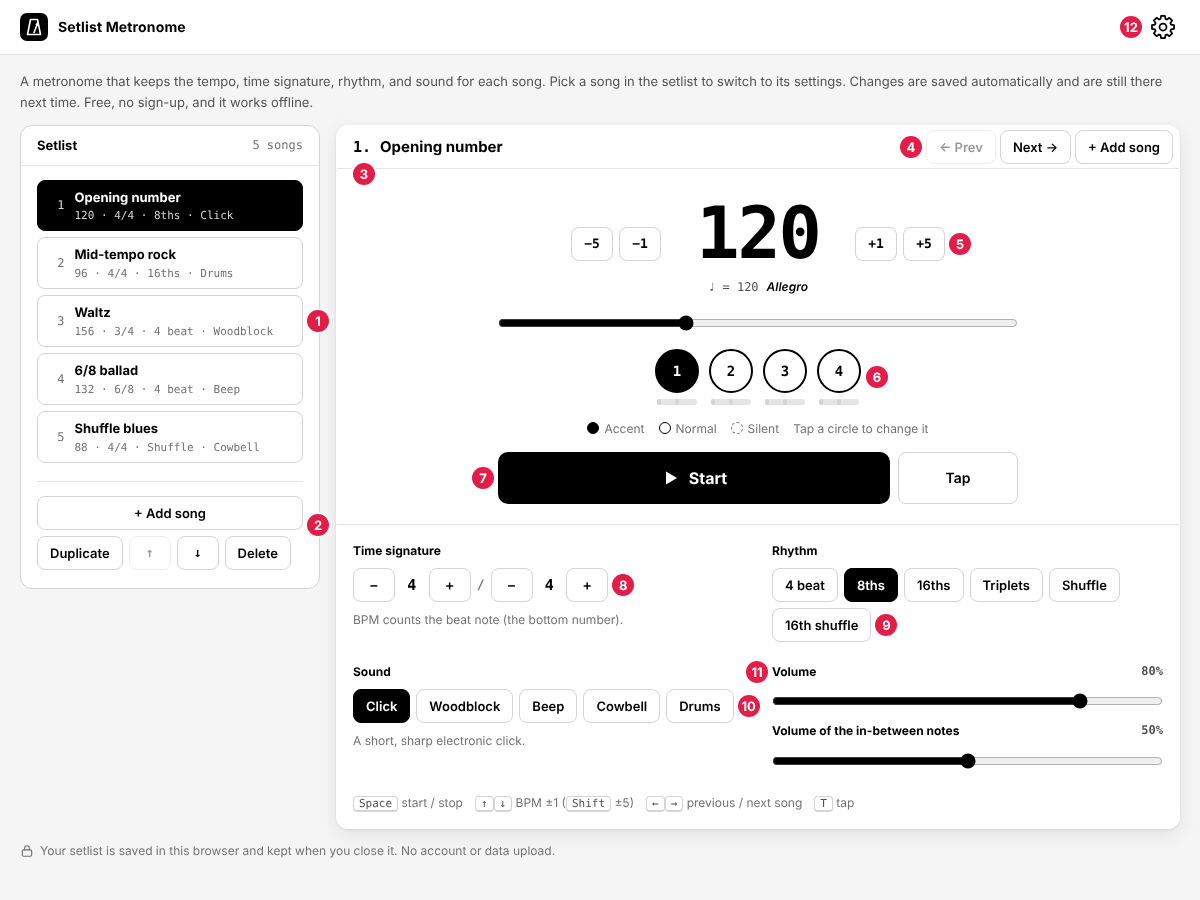
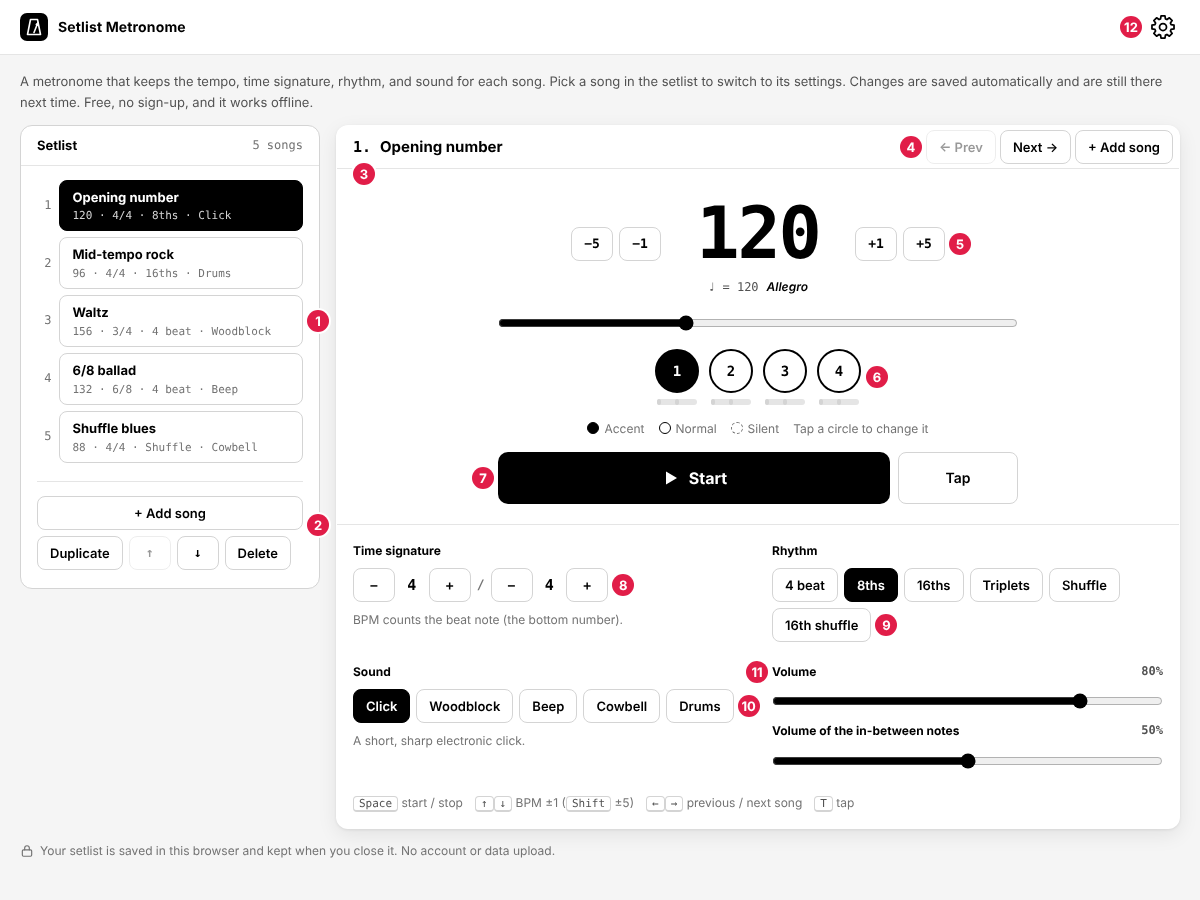
セットリストの曲順を曲の枠の外に出す
並べ替えたときに、数字は動かず曲の枠だけが入れ替わるようにする。
ガイドの画面写真を撮り直し、画像の高さの変化を記事に反映する。

Claude-Session: https://claude.ai/code/session_01W9UzpwS44o55T9J3hgcSUb

diff --git a/public/setlistmetronome/index.html b/public/setlistmetronome/index.html
@@ -121,12 +121,14 @@
 
     /* Setlist */
     .songs { list-style: none; margin: 0; padding: 0; display: flex; flex-direction: column; gap: 6px; }
-    .song { appearance: none; width: 100%; text-align: left; border: 1px solid var(--line-strong); border-radius: var(--radius); background: var(--paper); color: var(--ink); padding: 8px 12px; cursor: pointer; display: grid; grid-template-columns: auto minmax(0, 1fr); gap: 0 10px; align-items: center; transition: background-color .12s, border-color .12s; }
-    .song .no { font-family: var(--mono); font-size: 12px; color: var(--subtle); grid-row: span 2; min-width: 2ch; text-align: right; }
+    /* The number sits outside the card so it stays in place when songs are reordered */
+    .songs li { display: flex; align-items: center; gap: 8px; }
+    .songs .no { flex: none; font-family: var(--mono); font-size: 12px; color: var(--subtle); min-width: 2ch; text-align: right; font-variant-numeric: tabular-nums; }
+    .song { appearance: none; flex: 1; min-width: 0; text-align: left; border: 1px solid var(--line-strong); border-radius: var(--radius); background: var(--paper); color: var(--ink); padding: 8px 12px; cursor: pointer; display: grid; grid-template-columns: minmax(0, 1fr); transition: background-color .12s, border-color .12s; }
     .song .nm { font-weight: 700; font-size: 13px; overflow: hidden; text-overflow: ellipsis; white-space: nowrap; min-height: 1.6em; }
     .song .mt { font-family: var(--mono); font-size: 11px; color: var(--subtle); white-space: nowrap; overflow: hidden; text-overflow: ellipsis; }
     .song[aria-current="true"] { background: var(--ink); border-color: var(--ink); color: var(--paper); }
-    .song[aria-current="true"] .no, .song[aria-current="true"] .mt { color: var(--line-strong); }
+    .song[aria-current="true"] .mt { color: var(--line-strong); }
     @media (hover: hover) { .song:hover { border-color: var(--ink); } .song:not([aria-current="true"]):hover { background: var(--hover-fill); } }
     .list-actions { display: flex; flex-wrap: wrap; gap: 6px; border-top: 1px solid var(--line); padding-top: 14px; }
     .list-actions .grow { flex: 1 1 100%; }
@@ -782,9 +784,10 @@
           const no = document.createElement("span"); no.className = "no"; no.textContent = i + 1;
           const nm = document.createElement("span"); nm.className = "nm"; nm.textContent = p.name;
           const mt = document.createElement("span"); mt.className = "mt"; mt.textContent = metaText(p);
-          b.append(no, nm, mt);
+          no.setAttribute("aria-hidden", "true");
+          b.append(nm, mt);
           b.onclick = () => select(p.id);
-          li.appendChild(b); box.appendChild(li);
+          li.append(no, b); box.appendChild(li);
         });
         const idx = store.presets.findIndex((p) => p.id === store.current), n = store.presets.length;
         $("count").textContent = n === 1 ? t("count.one") : t("count", { n: n });

diff --git a/public/setlistmetronome/ja/index.html b/public/setlistmetronome/ja/index.html
@@ -123,12 +123,14 @@
 
     /* Setlist */
     .songs { list-style: none; margin: 0; padding: 0; display: flex; flex-direction: column; gap: 6px; }
-    .song { appearance: none; width: 100%; text-align: left; border: 1px solid var(--line-strong); border-radius: var(--radius); background: var(--paper); color: var(--ink); padding: 8px 12px; cursor: pointer; display: grid; grid-template-columns: auto minmax(0, 1fr); gap: 0 10px; align-items: center; transition: background-color .12s, border-color .12s; }
-    .song .no { font-family: var(--mono); font-size: 12px; color: var(--subtle); grid-row: span 2; min-width: 2ch; text-align: right; }
+    /* The number sits outside the card so it stays in place when songs are reordered */
+    .songs li { display: flex; align-items: center; gap: 8px; }
+    .songs .no { flex: none; font-family: var(--mono); font-size: 12px; color: var(--subtle); min-width: 2ch; text-align: right; font-variant-numeric: tabular-nums; }
+    .song { appearance: none; flex: 1; min-width: 0; text-align: left; border: 1px solid var(--line-strong); border-radius: var(--radius); background: var(--paper); color: var(--ink); padding: 8px 12px; cursor: pointer; display: grid; grid-template-columns: minmax(0, 1fr); transition: background-color .12s, border-color .12s; }
     .song .nm { font-weight: 700; font-size: 13px; overflow: hidden; text-overflow: ellipsis; white-space: nowrap; min-height: 1.6em; }
     .song .mt { font-family: var(--mono); font-size: 11px; color: var(--subtle); white-space: nowrap; overflow: hidden; text-overflow: ellipsis; }
     .song[aria-current="true"] { background: var(--ink); border-color: var(--ink); color: var(--paper); }
-    .song[aria-current="true"] .no, .song[aria-current="true"] .mt { color: var(--line-strong); }
+    .song[aria-current="true"] .mt { color: var(--line-strong); }
     @media (hover: hover) { .song:hover { border-color: var(--ink); } .song:not([aria-current="true"]):hover { background: var(--hover-fill); } }
     .list-actions { display: flex; flex-wrap: wrap; gap: 6px; border-top: 1px solid var(--line); padding-top: 14px; }
     .list-actions .grow { flex: 1 1 100%; }
@@ -780,9 +782,10 @@
           const no = document.createElement("span"); no.className = "no"; no.textContent = i + 1;
           const nm = document.createElement("span"); nm.className = "nm"; nm.textContent = p.name;
           const mt = document.createElement("span"); mt.className = "mt"; mt.textContent = metaText(p);
-          b.append(no, nm, mt);
+          no.setAttribute("aria-hidden", "true");
+          b.append(nm, mt);
           b.onclick = () => select(p.id);
-          li.appendChild(b); box.appendChild(li);
+          li.append(no, b); box.appendChild(li);
         });
         const idx = store.presets.findIndex((p) => p.id === store.current), n = store.presets.length;
         $("count").textContent = n === 1 ? t("count.one") : t("count", { n: n });

diff --git a/public/setlistmetronome/ja/guide/index.html b/public/setlistmetronome/ja/guide/index.html
@@ -206,7 +206,7 @@
 
 <h2 id="screen">画面の見方</h2>
 <figure class="shot">
-  <a href="/setlistmetronome/images/guide/ja-overview.png"><img src="/setlistmetronome/images/guide/ja-overview.png" alt="パソコンで開いた Setlist Metronome。左に 5 曲のセットリスト、右に選択中の曲のメトロノーム（120 BPM、4 つの拍の丸、スタートボタン、その下に設定）。操作部分に 1〜12 の番号が付いている。" width="1200" height="918" loading="lazy" decoding="async"></a>
+  <a href="/setlistmetronome/images/guide/ja-overview.png"><img src="/setlistmetronome/images/guide/ja-overview.png" alt="パソコンで開いた Setlist Metronome。左に 5 曲のセットリスト、右に選択中の曲のメトロノーム（120 BPM、4 つの拍の丸、スタートボタン、その下に設定）。操作部分に 1〜12 の番号が付いている。" width="1200" height="900" loading="lazy" decoding="async"></a>
   <figcaption>番号は下の一覧と対応しています。画像を押すと拡大します。</figcaption>
 </figure>
 <ol>

diff --git a/public/setlistmetronome/guide/index.html b/public/setlistmetronome/guide/index.html
@@ -206,7 +206,7 @@
 
 <h2 id="screen">The screen at a glance</h2>
 <figure class="shot">
-  <a href="/setlistmetronome/images/guide/en-overview.png"><img src="/setlistmetronome/images/guide/en-overview.png" alt="Setlist Metronome on a computer: a setlist of five songs on the left, and the metronome for the selected song on the right with 120 BPM, four beat circles, the Start button, and the settings below. Numbers 1 to 12 mark the controls." width="1200" height="918" loading="lazy" decoding="async"></a>
+  <a href="/setlistmetronome/images/guide/en-overview.png"><img src="/setlistmetronome/images/guide/en-overview.png" alt="Setlist Metronome on a computer: a setlist of five songs on the left, and the metronome for the selected song on the right with 120 BPM, four beat circles, the Start button, and the settings below. Numbers 1 to 12 mark the controls." width="1200" height="900" loading="lazy" decoding="async"></a>
   <figcaption>The numbers match the list below. Tap the image to enlarge it.</figcaption>
 </figure>
 <ol>

diff --git a/docs/article-review.md b/docs/article-review.md
@@ -29,6 +29,12 @@ PR を出すと Cloudflare のプレビュー URL ができるので、そこで
 | H | 使い方ガイド | 画面写真の番号と一覧の対応、ホーム画面への追加手順の書き方（「アプリをインストール」はブラウザによって表記が違う） |
 | I | 全体 | 日本語の「ビート」（アプリの項目名）と記事中の「リズム」の使い分け |
 
+## 2026-10-20（使い方ガイドの画面写真の撮り直し）特に見てほしいところ
+
+| # | 記事 | 確認してほしい点 |
+|---|---|---|
+| J | 使い方ガイド | パソコンの画面写真（en / ja）を撮り直した。タイトル下の説明が文ごとに改行されなくなったことと、セットリストの曲順の数字が枠の外に出たことが写真に出ているか。番号 1〜12 の位置がずれていないか |
+
 ## 確認が終わったら
 
 1. 直す点があれば Claude に伝える（Claude が直して PR を更新 → もう一度確認）。
